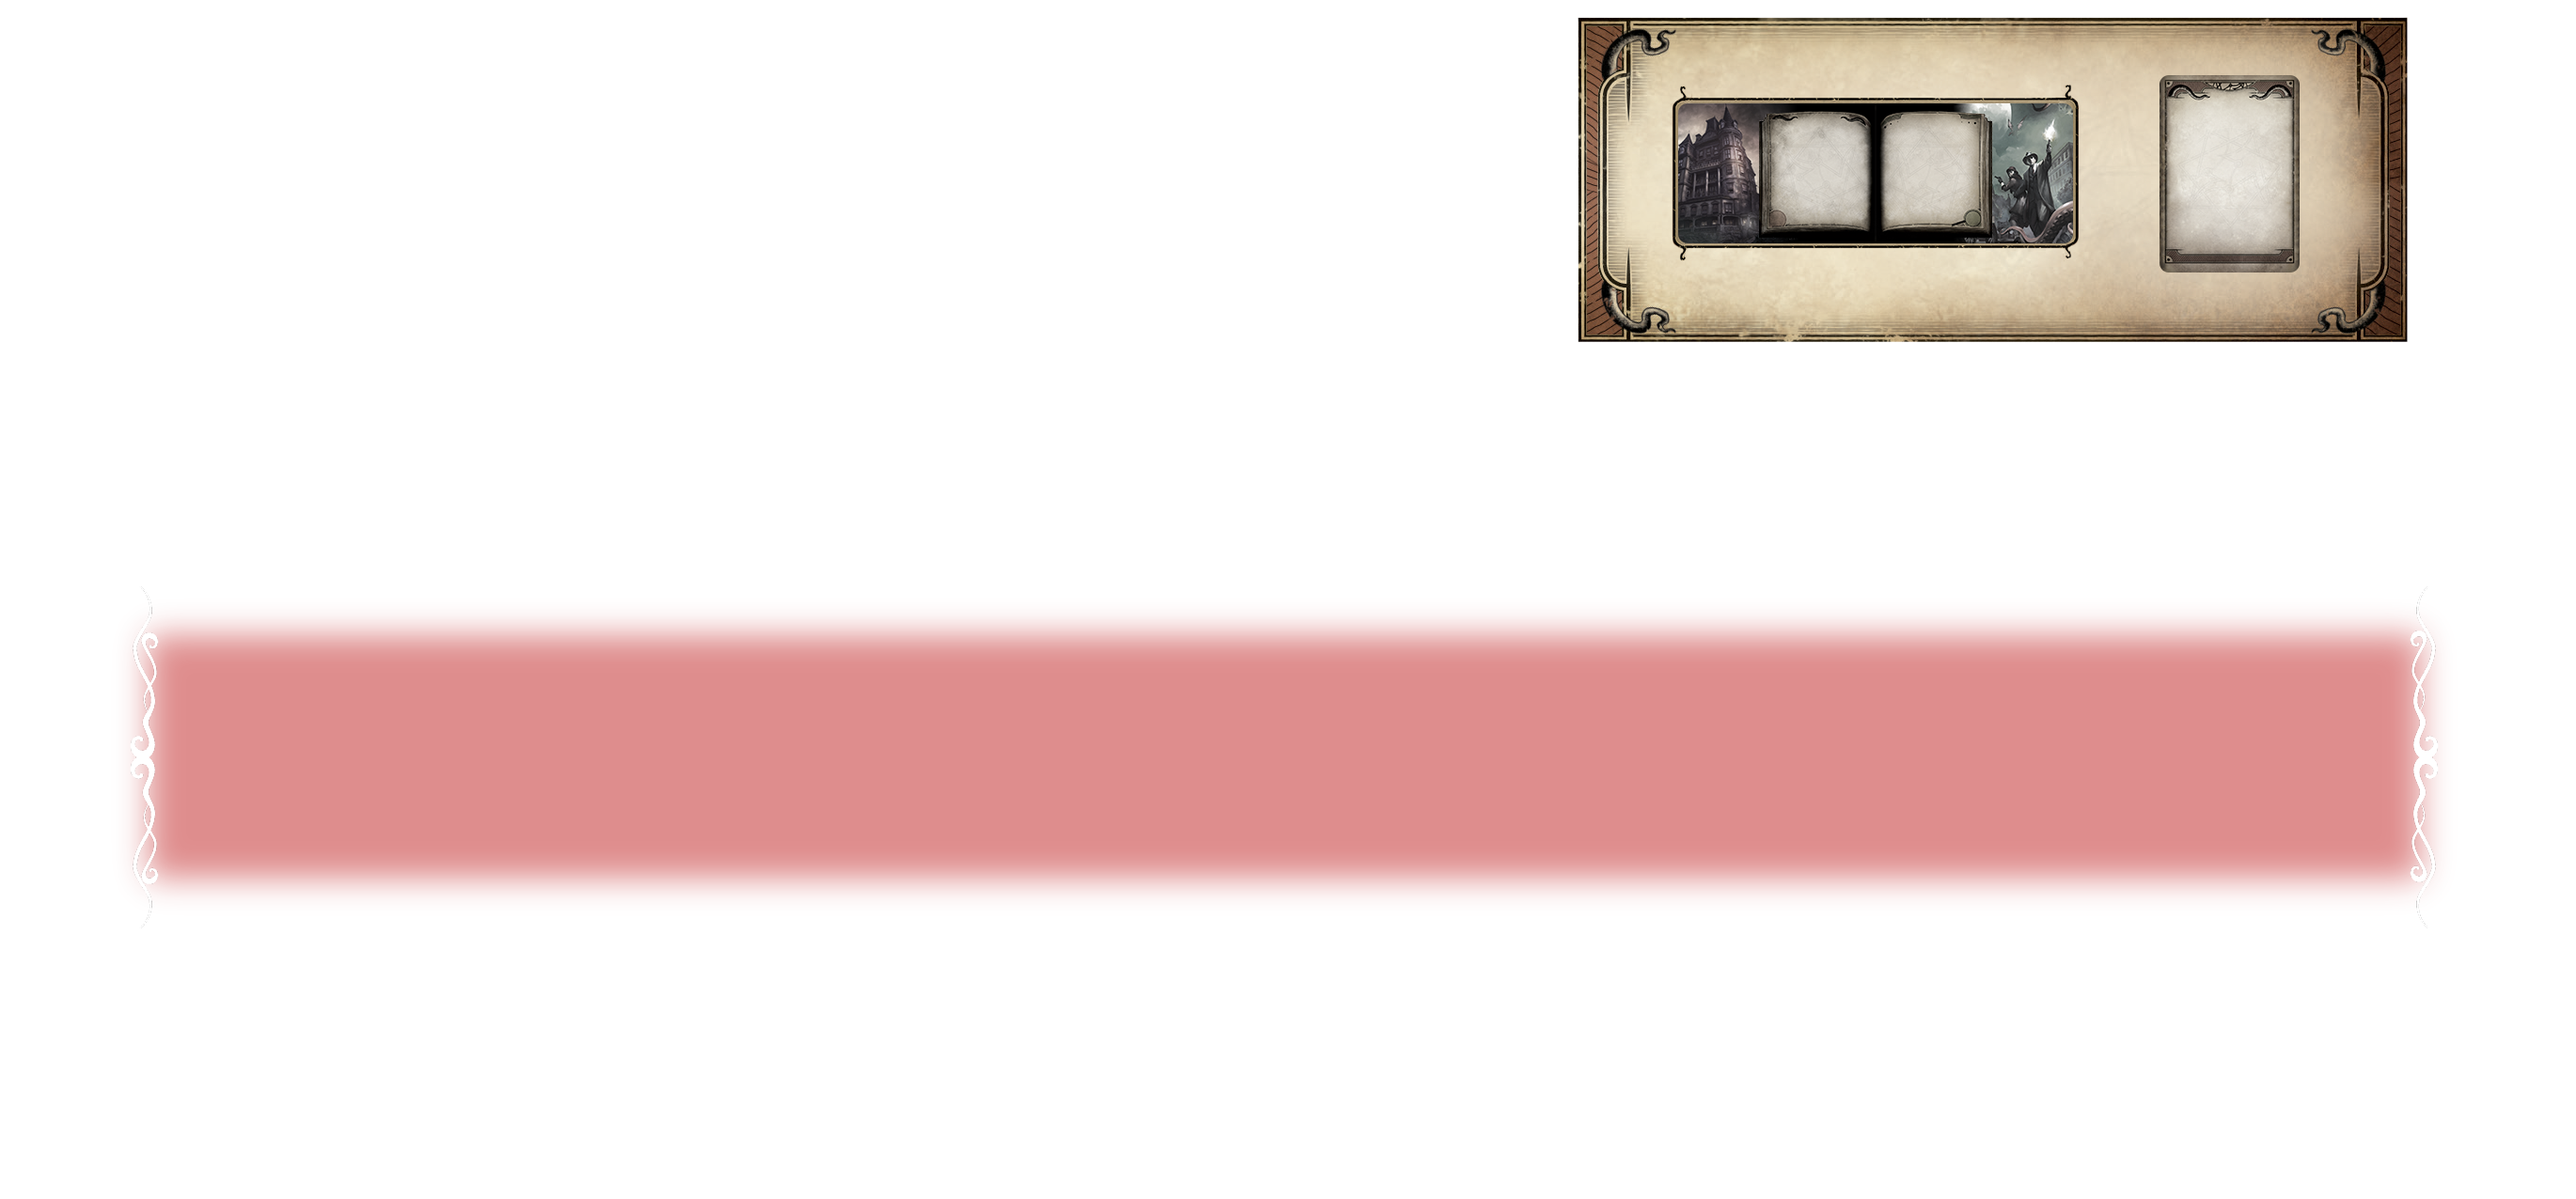
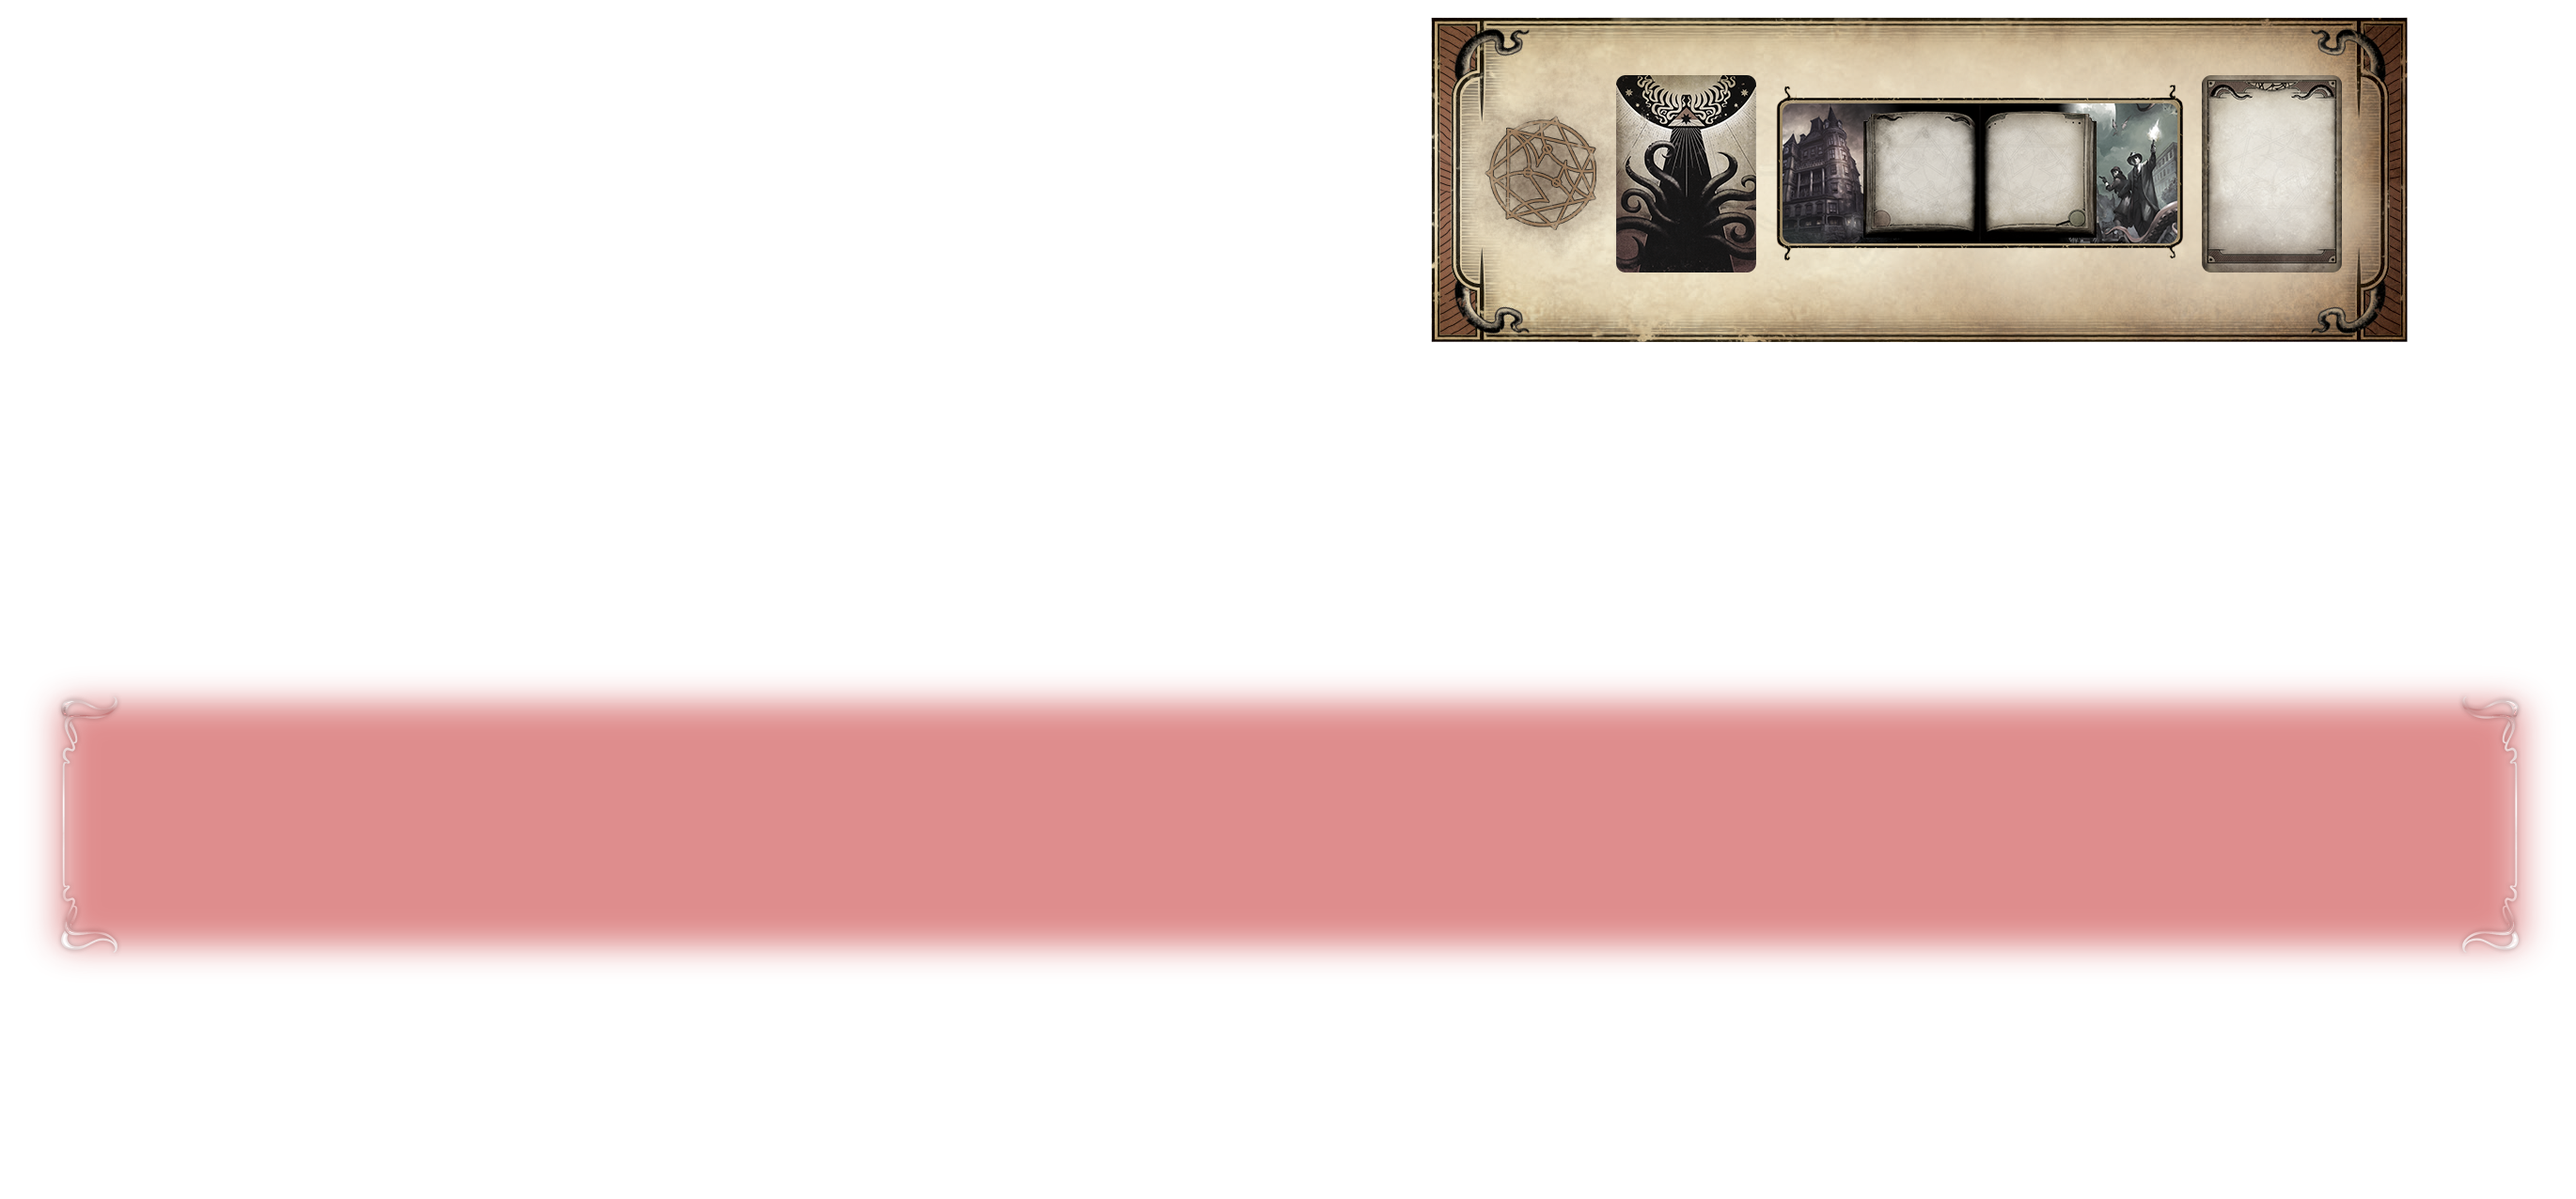
Updated Tabletop Background
With updated coordinates for encounter cards and Chaos Tokens

Changed region(s): [[0.0, 0.5196, 0.9927, 0.8252], [0.5584, 0.0, 0.9307, 0.3056]]

diff --git a/o8g/Scripts/actions.py b/o8g/Scripts/actions.py
@@ -18,16 +18,18 @@ StagingStart = -515
 StagingWidth = 619
 StagingY = -222
 StagingSpace = 82
-AgendaX = 174.5
+AgendaX = 221
 AgendaY = -222
-ActX = 262.5
+ActX = 309
 ActY = -222
-ScenarioX = 388.5
+EncounterX = 147
+EncounterY = -234.75
+ScenarioX = 408.5
 ScenarioY = -234.75
 CampaignX = 500
 CampaignY = -234.75
-ChaosTokenX = 55
-ChaosTokenY = -231
+ChaosTokenX = 94
+ChaosTokenY = -211
 DoneColour = "#D8D8D8" # Grey
 WaitingColour = "#FACC2E" # Orange
 ActiveColour = "#82FA58" # Green
@@ -642,7 +644,9 @@ def nextEncounter(group, x, y, facedown, who=me):
     clearTargets()
     card = group.top()
     if x == 0 and y == 0:  #Move to default position in the staging area
-        addToStagingArea(card, facedown, who)       
+        #addToStagingArea(card, facedown, who)   
+        card.moveToTable(EncounterX, EncounterY, facedown)
+        notify("{} places '{}' on the table.".format(who, card))    
     else:
         card.moveToTable(x, y, facedown)
         notify("{} places '{}' on the table.".format(who, card))
